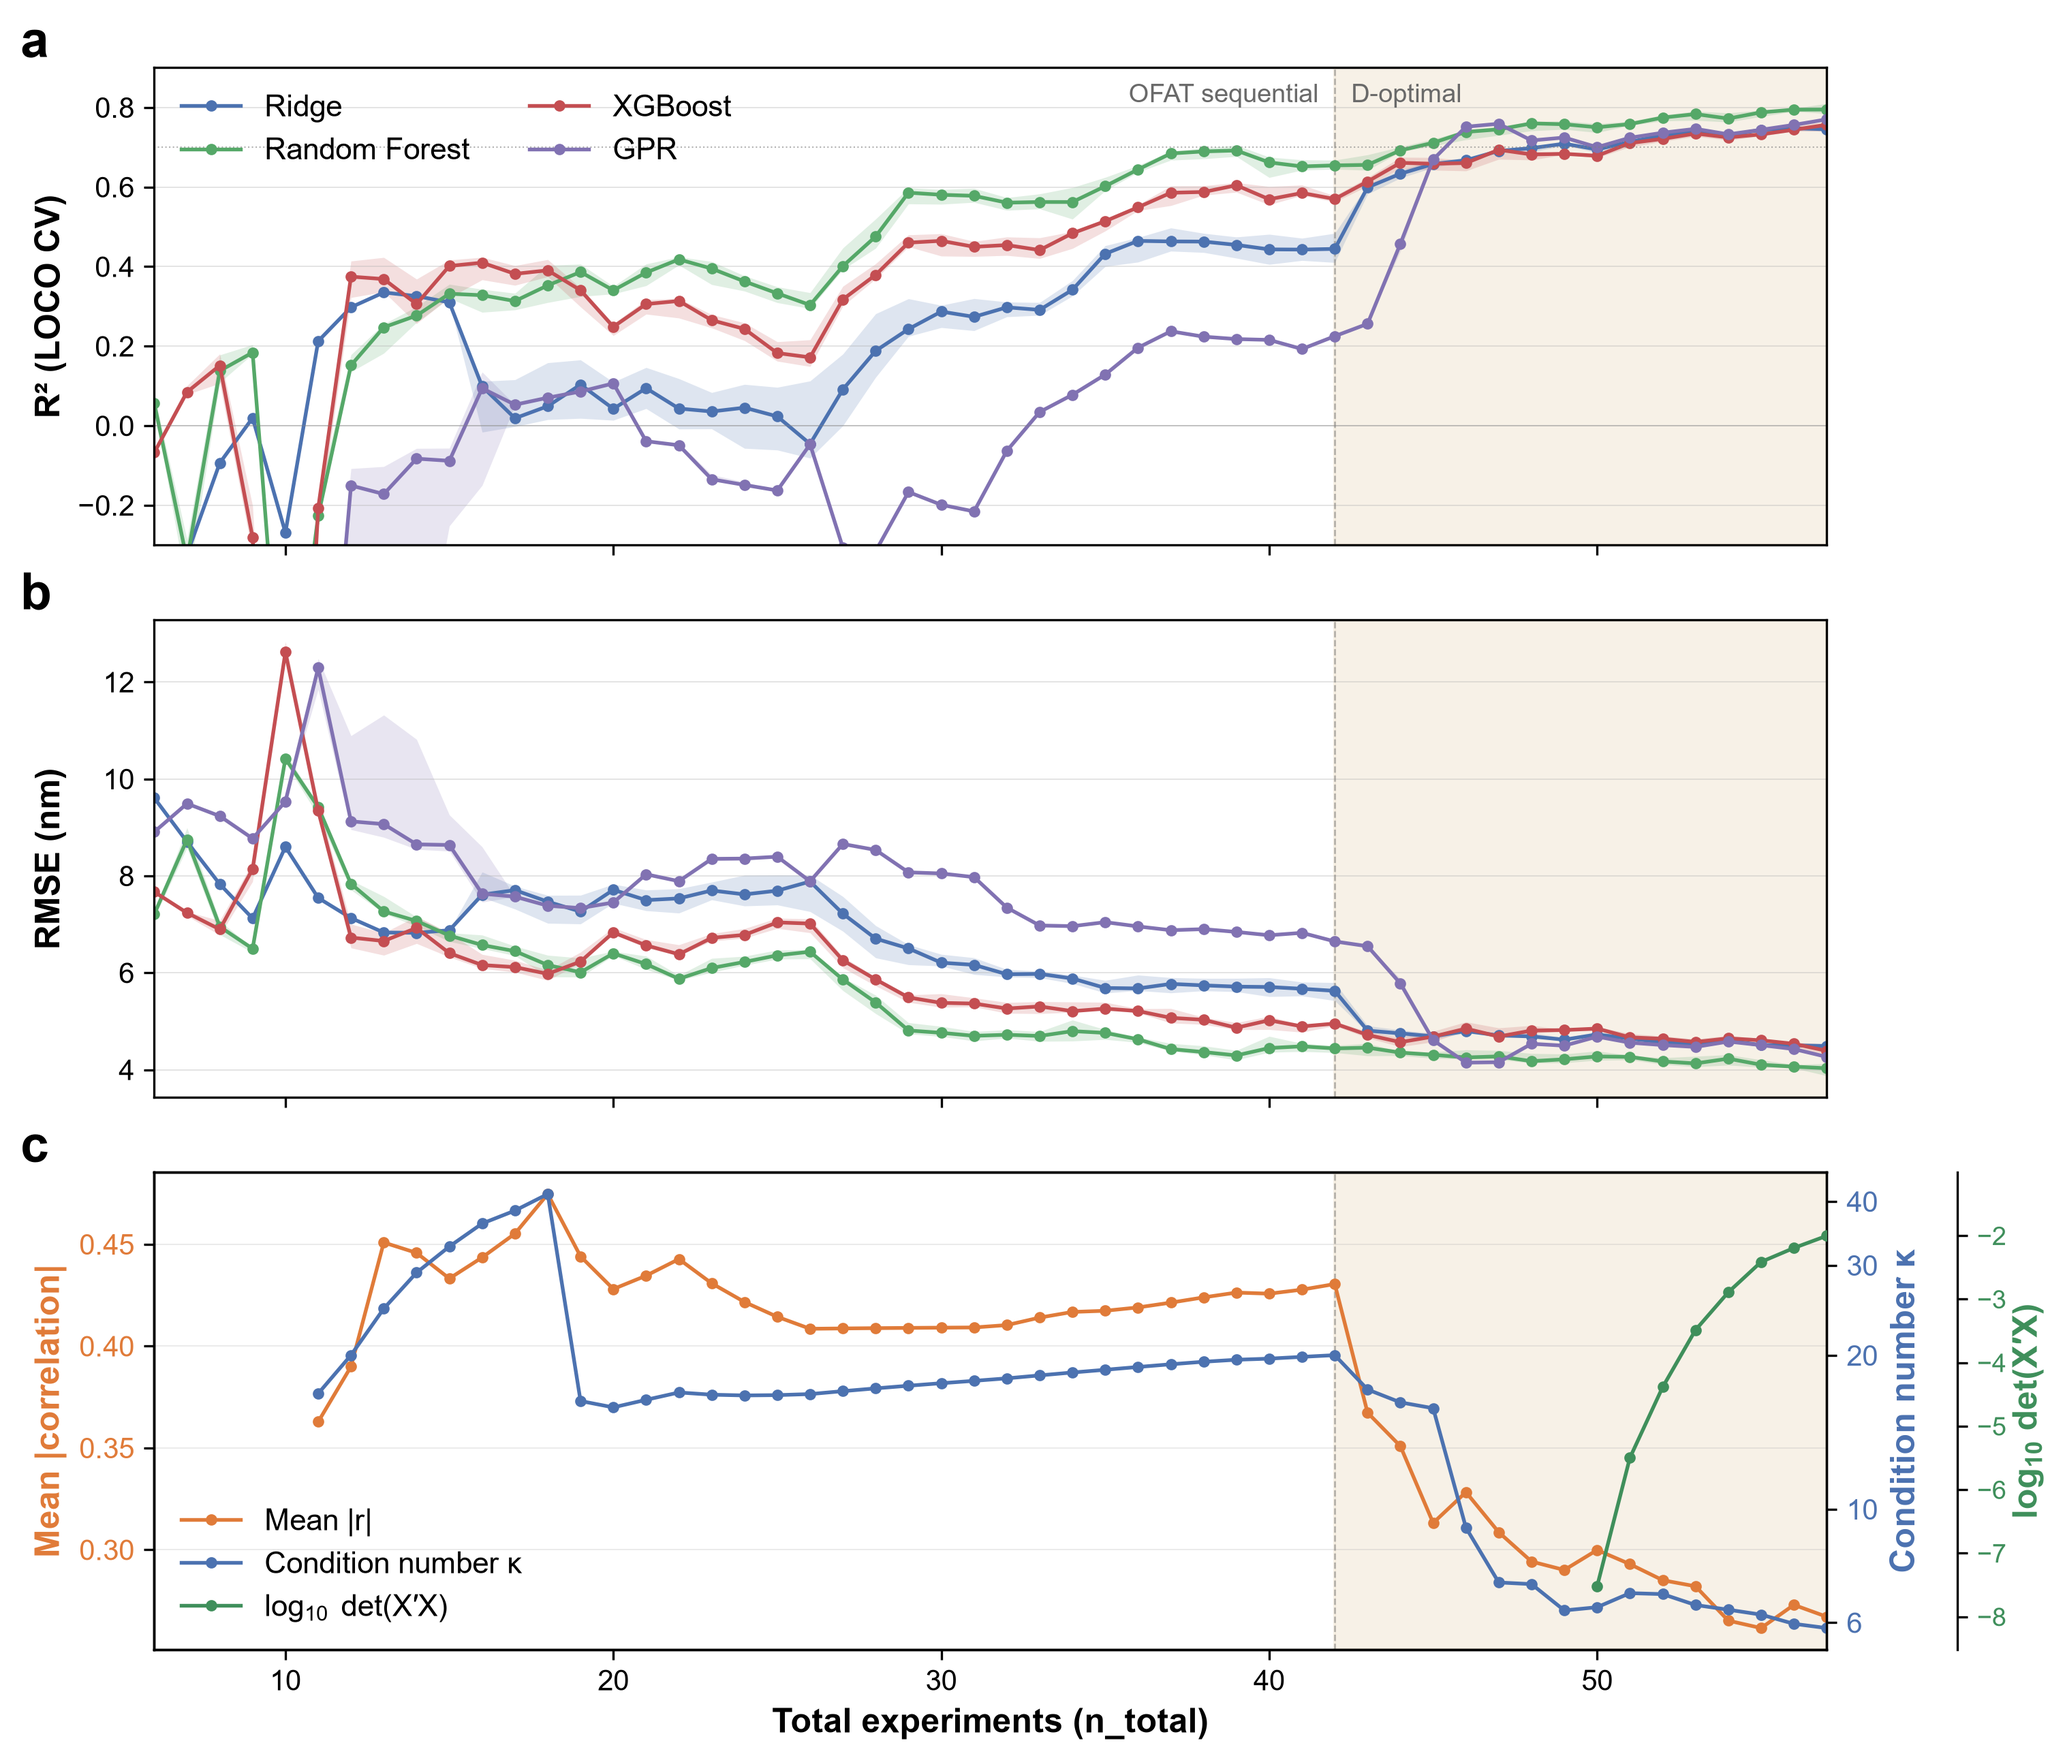
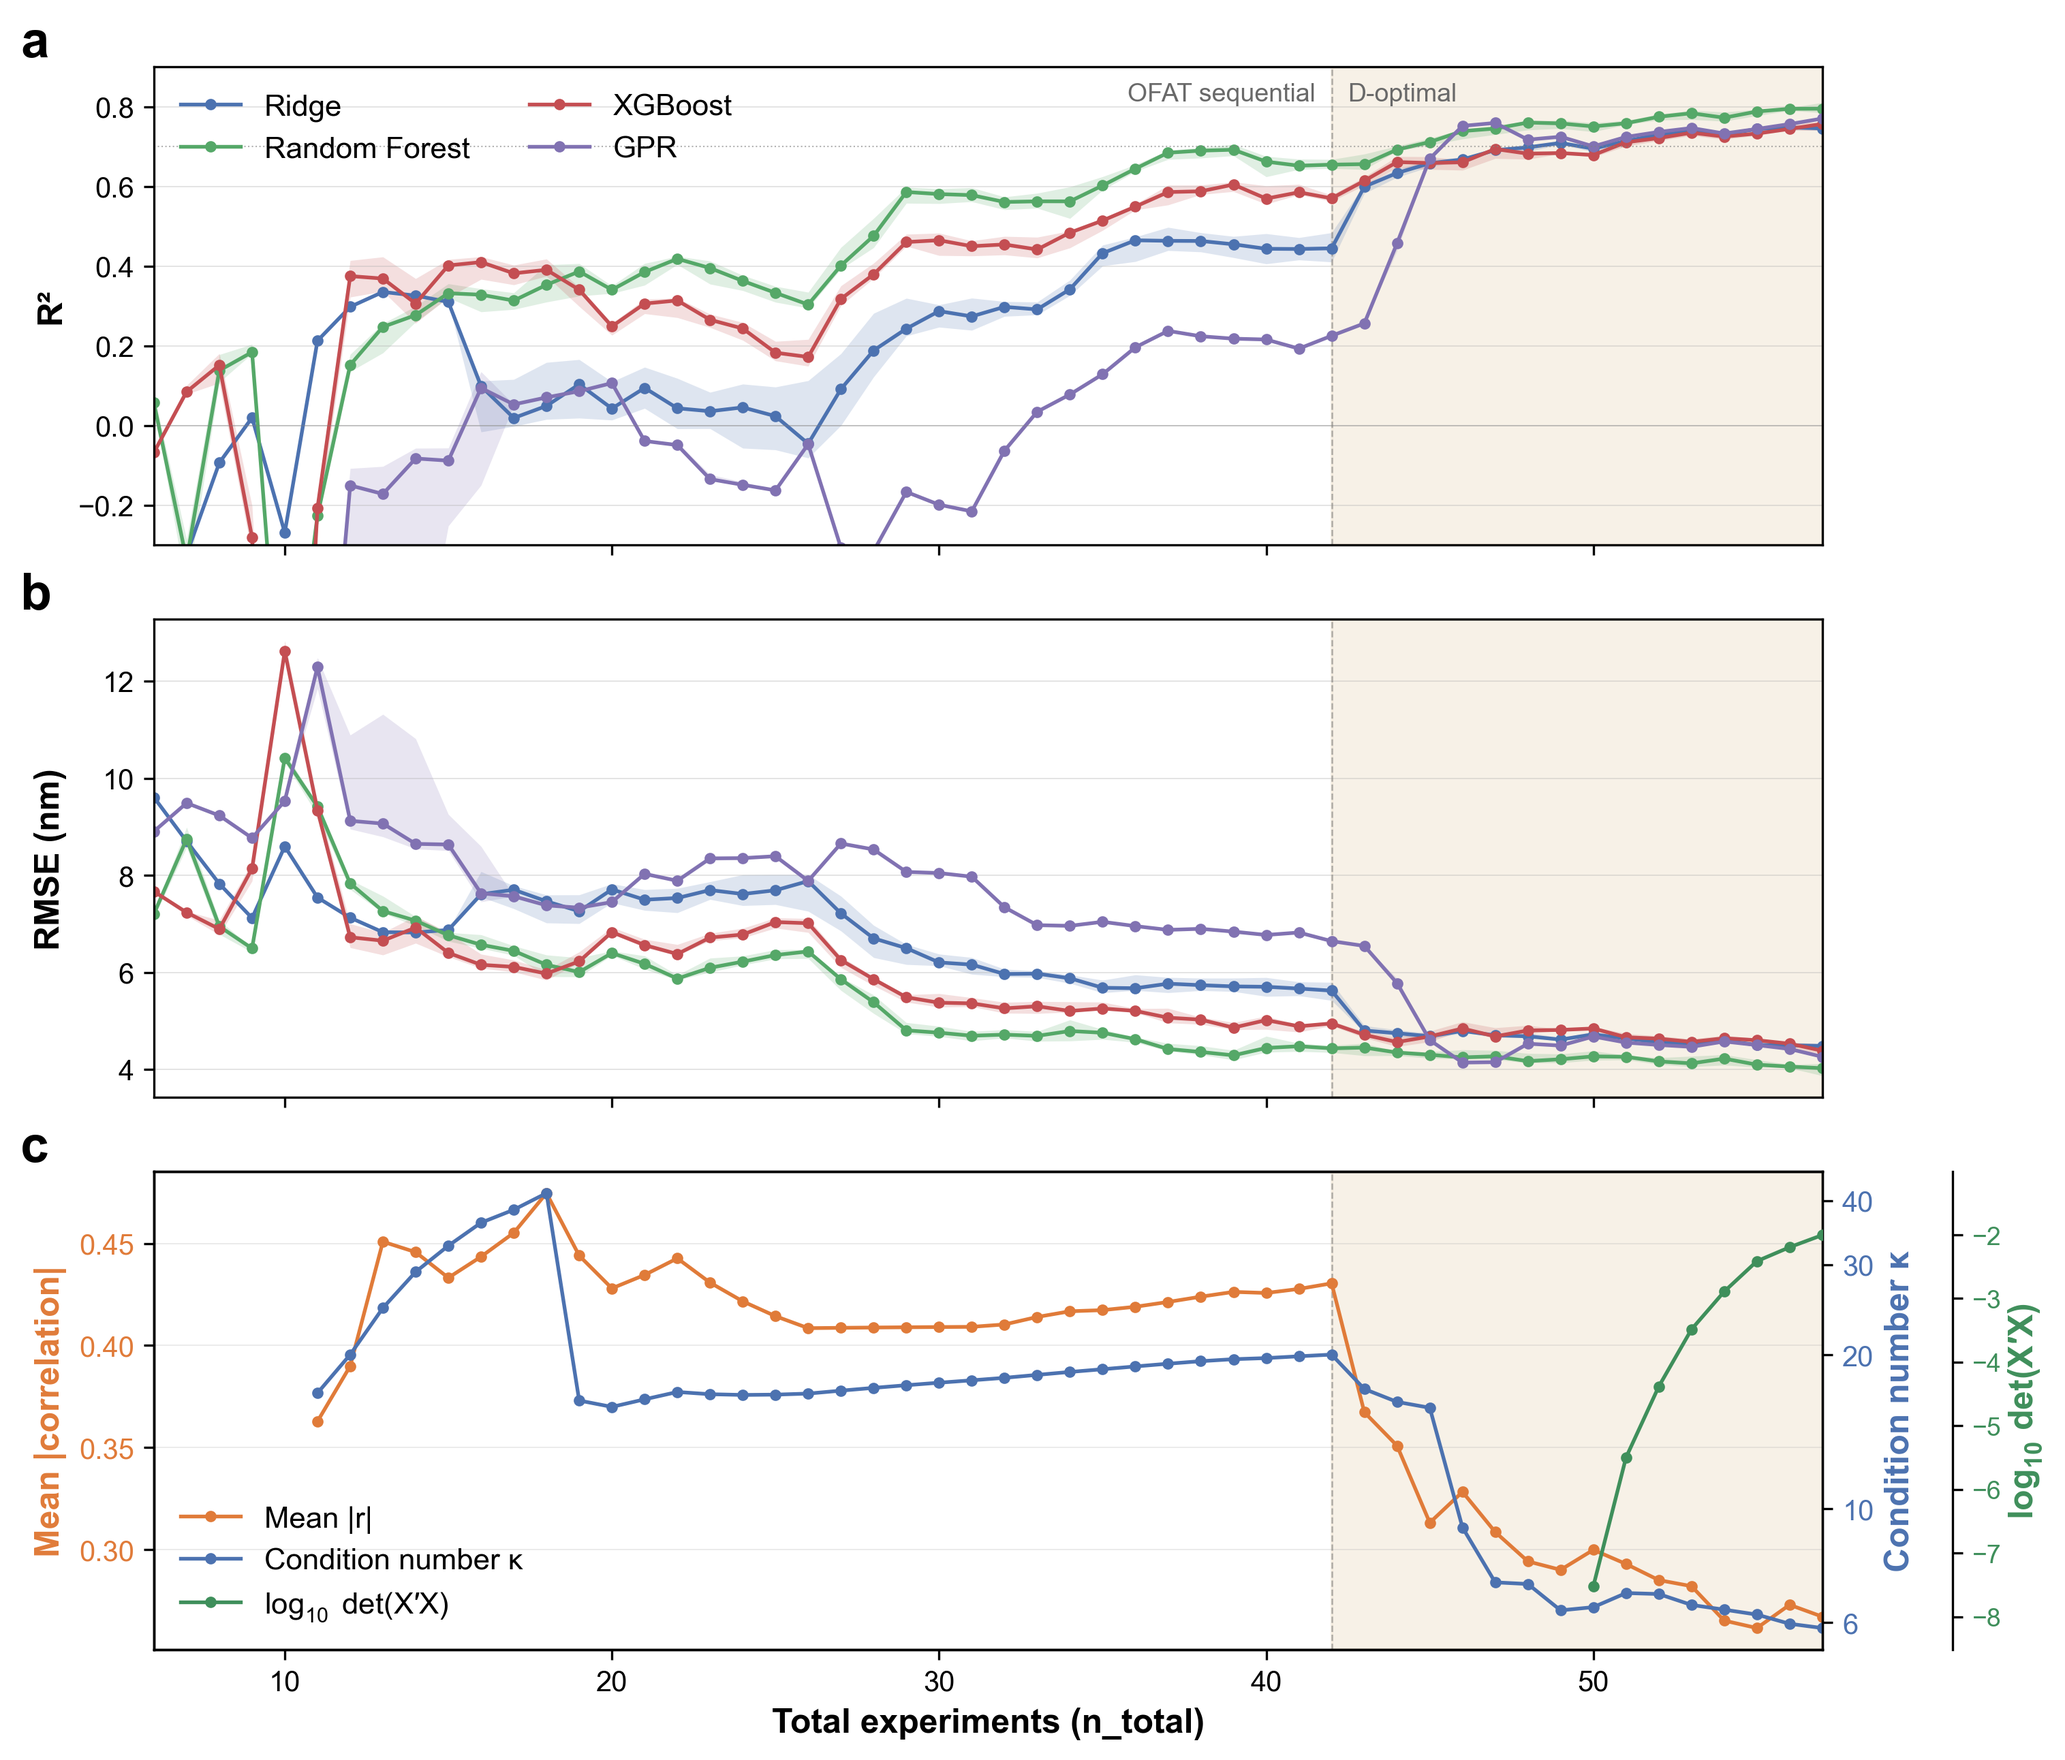
Align figures with the revised manuscript: seed 48, no CV labels in axes, drop Figure R5

diff --git a/cv/figures.py b/cv/figures.py
@@ -1,7 +1,7 @@
 """Draw the cross-validation figures into `figures/`.
 
-    python -m cv.figures                 all five
-    python -m cv.figures fig3 figR5      a selection
+    python -m cv.figures                 all four
+    python -m cv.figures fig3 figR4      a selection
 
 fig3    Figure 3: the leave-one-condition-out R2 and RMSE trajectories as the
         42 one-factor-at-a-time wafers accumulate and the 15 D-optimal wafers
@@ -13,9 +13,6 @@ figR3   leave-one-out against leave-one-condition-out cross-validation, before
 figR4   the same-test-set comparison: for every held-out condition, one model
         trained on the remaining one-factor-at-a-time wafers and one trained on
         those plus the D-optimal wafers, both scoring the same wafers.
-figR5   the excluded T2 wafer position: its offset from the four retained
-        readings, the effect on the within-wafer spread, and the
-        leave-one-condition-out R2 for both targets.
 
 The figures read the results in `results/cv/` and write 300 dpi PNGs.  Run
 `python -m cv.pipeline`, `python -m cv.bootstrap` and `python -m cv.figure_data`
@@ -51,7 +48,7 @@ MODEL_COLORS = {"Ridge": "#4C72B0", "Random Forest": "#55A868",
 COLOR_OFAT, COLOR_COMBINED, COLOR_DOE = "#4C72B0", "#55A868", "#C44E52"
 FEATURES = ["Plasma_Power_W", "Cycles", "Chuck_T_C", "O2_Flow_sccm", "Oxidant_Dose_s"]
 RETAINED = ["T1", "T3", "T4", "T5"]
-PLOT_SEED = 42
+PLOT_SEED = 48
 N_OFAT, N_TOTAL = 42, 57
 N_COND_OFAT, N_COND_AUG = 24, 39
 
@@ -128,7 +125,7 @@ def fig3():
 
     ax_r2.axhline(0.7, color="gray", lw=0.5, ls=":", alpha=0.6)
     ax_r2.axhline(0.0, color="gray", lw=0.4, alpha=0.4)
-    ax_r2.set_ylabel("R² (LOCO CV)")
+    ax_r2.set_ylabel("R²")
     ax_r2.set_ylim(max(R2_FLOOR, np.floor(r2.q25.min() * 20) / 20),
                    np.ceil(r2.q75.max() * 20) / 20 + 0.05)
     ax_r2.legend(loc="upper left", fontsize=LEGEND_SIZE, frameon=False, ncol=2)
@@ -222,9 +219,9 @@ def fig4():
 
     for ax, y_true, y_pred, color, title in [
         (ax_a, y_ofat, yp_before, COLOR_OFAT,
-         f"OFAT-only, LOCO CV (n = {len(y_ofat)}, {N_COND_OFAT} conditions)"),
+         f"OFAT-only (n = {len(y_ofat)}, {N_COND_OFAT} unique conditions)"),
         (ax_b, y_all, yp_after, COLOR_COMBINED,
-         f"Augmented, LOCO CV (n = {len(y_all)}, {N_COND_AUG} conditions)"),
+         f"Augmented (n = {len(y_all)}, {N_COND_AUG} unique conditions)"),
     ]:
         r2, rmse, mae = _parity_metrics(y_true, y_pred)
         ax.scatter(y_true, y_pred, c=color, s=32, alpha=0.75,
@@ -499,124 +496,7 @@ def figR4():
     _save(fig, "FigureR4")
 
 
-# ── Figure R5 ───────────────────────────────────────────────────────────────
-BASELINE = dict(Plasma_Power_W=20, Chuck_T_C=250, O2_Flow_sccm=50, Oxidant_Dose_s=60)
-BARS_R5 = [("OFAT", "Thickness_mean"), ("OFAT", "Thickness_5pos"),
-           ("Augmented", "Thickness_mean"), ("Augmented", "Thickness_5pos")]
-STYLE_R5 = {("OFAT", "Thickness_mean"):      dict(alpha=0.35, hatch=""),
-            ("OFAT", "Thickness_5pos"):      dict(alpha=0.35, hatch="///"),
-            ("Augmented", "Thickness_mean"): dict(alpha=0.95, hatch=""),
-            ("Augmented", "Thickness_5pos"): dict(alpha=0.95, hatch="///")}
-
-
-def _positions():
-    """The 57 wafers with all five readings, plus the derived spreads."""
-    m = pd.read_csv(_require(DATA / "thickness_positions.csv"))
-    four = m[RETAINED].to_numpy(float)
-    t2 = m["T2"].to_numpy(float)
-    m["mean4"] = four.mean(axis=1)
-    m["sd4"] = m[RETAINED].std(axis=1, ddof=1)
-    m["mean5"] = (four.sum(axis=1) + t2) / 5
-    m["sd5"] = np.std(np.column_stack([four, t2]), axis=1, ddof=1)
-    m["dT2"] = m["T2"] - m["mean4"]
-    m["baseline"] = np.logical_and.reduce([m[c] == v for c, v in BASELINE.items()])
-    return m
-
-
-def figR5():
-    _style(11)
-    d = _positions()
-
-    five = pd.read_csv(_require(RESULTS / "metrics_fivepos.csv"))
-    five = five[five.cv == "LOCO"]
-    parts, names = [five], ["metrics_fivepos.csv"]
-    # The five-position file holds only the five-position target; the
-    # four-position reference it is compared against lives in the reference
-    # file, whose LOCO rows are the same 42- and 57-wafer fits on the
-    # four-position mean.  Panel (c) therefore reads both.
-    if set(five.target.unique()) == {"Thickness_5pos"}:
-        four = pd.read_csv(_require(RESULTS / "metrics_loocv_ref.csv"))
-        four = four[(four.cv == "LOCO") & (four.target == "Thickness_mean")]
-        if four.empty:
-            sys.exit("no LOCO / Thickness_mean rows in metrics_loocv_ref.csv")
-        parts.append(four)
-        names.append("metrics_loocv_ref.csv")
-    r = pd.concat(parts, ignore_index=True)
-    val = r.groupby(["target", "subset", "model"])["R2"].median().reset_index()
-    print(f"  panel (c): {' + '.join(names)}; "
-          f"seeds per target {sorted(r.groupby('target')['seed'].nunique().unique())}")
-
-    fig, (ax_a, ax_b, ax_c) = plt.subplots(1, 3, figsize=(14.5, 4.6),
-                                           constrained_layout=True)
-
-    # (a) the T2 offset against deposition cycles
-    for mask, c, lab in (
-            (d.baseline, COLOR_OFAT, f"baseline series (n = {int(d.baseline.sum())})"),
-            (~d.baseline, COLOR_DOE, f"other conditions (n = {int((~d.baseline).sum())})")):
-        ax_a.scatter(d.loc[mask, "Cycles"], d.loc[mask, "dT2"], s=38, c=c,
-                     edgecolors="black", linewidths=0.35, alpha=0.8, label=lab)
-    ax_a.axhline(0, color="dimgray", lw=1.0, ls="-")
-    ax_a.axhline(d["dT2"].mean(), color="dimgray", lw=0.9, ls="--")
-    ax_a.text(ax_a.get_xlim()[1], d["dT2"].mean(), f"  mean {d['dT2'].mean():+.2f} nm",
-              fontsize=7.5, color="dimgray", va="center", ha="left")
-    ax_a.set_xlabel("Deposition cycles")
-    ax_a.set_ylabel("T2 − mean(T1, T3, T4, T5)  (nm)")
-    ax_a.grid(True, lw=0.4, alpha=0.3)
-    ax_a.legend(loc="best", fontsize=8, frameon=False)
-
-    # (b) within-wafer spread, four against five positions
-    smax = float(max(d.sd4.max(), d.sd5.max())) * 1.08
-    for mask, c in ((d.baseline, COLOR_OFAT), (~d.baseline, COLOR_DOE)):
-        ax_b.scatter(d.loc[mask, "sd5"], d.loc[mask, "sd4"], s=38, c=c,
-                     edgecolors="black", linewidths=0.35, alpha=0.8)
-    ax_b.plot([0, smax], [0, smax], "k--", lw=0.8, alpha=0.5)
-    ax_b.set_xlim(0, smax)
-    ax_b.set_ylim(0, smax)
-    ax_b.set_box_aspect(1)
-    ax_b.set_xlabel("SD of five positions (nm)")
-    ax_b.set_ylabel("SD of four retained positions (nm)")
-    ax_b.grid(True, lw=0.4, alpha=0.3)
-    ax_b.text(0.04, 0.96, f"median SD  4-pos {d.sd4.median():.2f} nm\n"
-                          f"            5-pos {d.sd5.median():.2f} nm",
-              transform=ax_b.transAxes, va="top", ha="left", fontsize=7.5,
-              family="monospace",
-              bbox=dict(boxstyle="round,pad=0.3", facecolor="white", alpha=0.9,
-                        edgecolor="lightgray"))
-
-    # (c) LOCO R2 for the four- and the five-position target
-    x = np.arange(len(MODEL_ORDER))
-    w = 0.20
-    for i, (subset, target) in enumerate(BARS_R5):
-        vals = [float(val[(val.subset == subset) & (val.target == target)
-                          & (val.model == m)]["R2"].iloc[0]) for m in MODEL_ORDER]
-        st = STYLE_R5[(subset, target)]
-        ax_c.bar(x + (i - 1.5) * w, vals, w,
-                 color=[MODEL_COLORS[m] for m in MODEL_ORDER],
-                 alpha=st["alpha"], hatch=st["hatch"], edgecolor="black", linewidth=0.5)
-        for xi, v in zip(x + (i - 1.5) * w, vals):
-            ax_c.text(xi, v + 0.012, f"{v:.2f}", ha="center", va="bottom",
-                      fontsize=6.5, rotation=90)
-    ax_c.set_xticks(x)
-    ax_c.set_xticklabels(MODEL_ORDER, fontsize=9)
-    ax_c.set_ylabel("R² (LOCO CV)")
-    ax_c.set_ylim(0, 1.0)
-    ax_c.grid(True, axis="y", lw=0.4, alpha=0.35)
-    ax_c.set_axisbelow(True)
-    ax_c.legend(handles=[
-        Patch(facecolor="0.55", edgecolor="black", linewidth=0.5,
-              alpha=STYLE_R5[b]["alpha"], hatch=STYLE_R5[b]["hatch"],
-              label=f"{'OFAT-only' if b[0] == 'OFAT' else 'Augmented'}, "
-                    f"{'4-position' if b[1] == 'Thickness_mean' else '5-position'} target")
-        for b in BARS_R5], loc="upper left", fontsize=7, frameon=False, ncol=2)
-
-    for ax, letter in zip((ax_a, ax_b, ax_c), ("a", "b", "c")):
-        ax.text(-0.13, 1.03, letter, transform=ax.transAxes, fontsize=16,
-                fontweight="bold", ha="left", va="bottom")
-
-    _save(fig, "FigureR5")
-
-
-FIGURES = {"fig3": fig3, "fig4": fig4, "figR3": figR3, "figR4": figR4, "figR5": figR5}
+FIGURES = {"fig3": fig3, "fig4": fig4, "figR3": figR3, "figR4": figR4}
 
 
 def main():

diff --git a/cv/figure_data.py b/cv/figure_data.py
@@ -34,7 +34,7 @@ OUT_DEF = RESULTS / "figure_data"
 
 MODEL_ORDER = ["Ridge", "Random Forest", "XGBoost", "GPR"]
 METRICS = ["R2", "RMSE", "MAE"]
-PLOT_SEED = 42          # the seed whose out-of-fold predictions Figure 4 draws
+PLOT_SEED = 48          # the seed whose out-of-fold predictions Figure 4 draws
 N_OFAT_MAX = 42
 ENDPOINTS = {0: "OFAT", 15: "Augmented"}
 

diff --git a/README.md b/README.md
@@ -129,7 +129,7 @@ differences.
     cv/                      the cross-validation, bootstrap and figure code
     results/cv/              metrics, out-of-fold predictions and intervals
     results/cv/figure_data/  the reduced inputs the figures read
-    figures/                 the five figures drawn from them
+    figures/                 the four figures drawn from them
 
 ## Data
 
